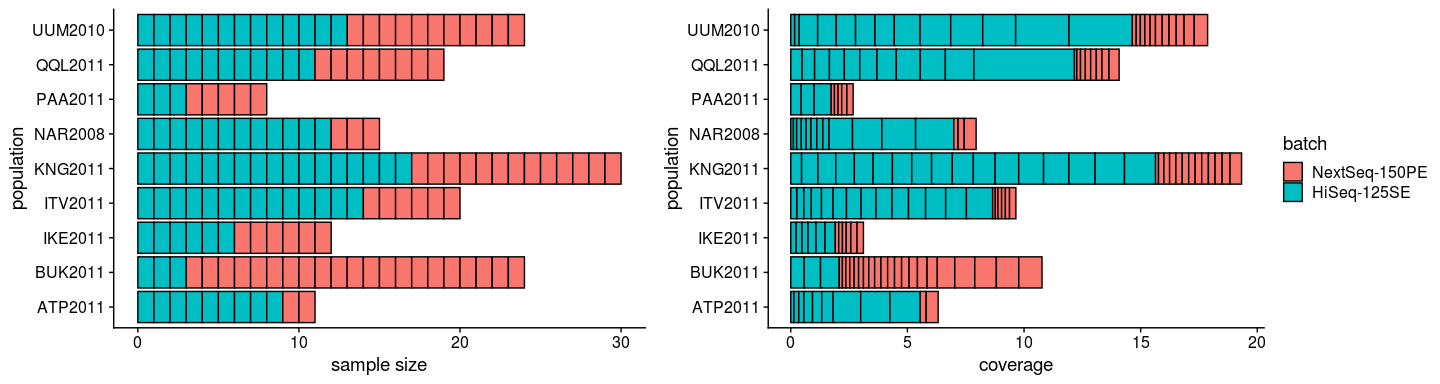
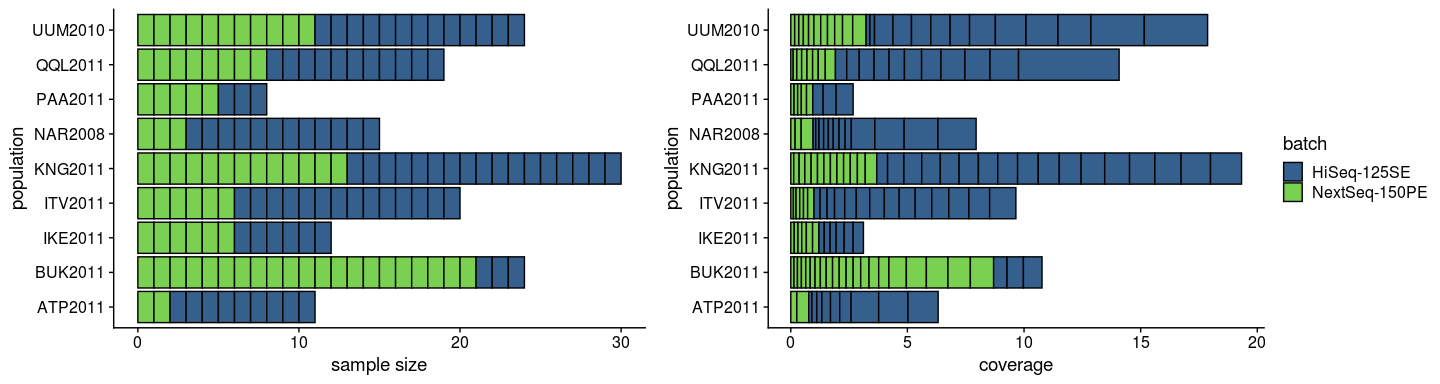
minor update

Changed region(s): [[0.0938, 0.0312, 0.4375, 0.8438], [0.5312, 0.0312, 1.0, 0.8438]]

diff --git a/markdown/pipeline.md b/markdown/pipeline.md
@@ -52,9 +52,11 @@ fastq_list_se <- filter(sample_table_unmerged, lane_number != 7)$prefix
 
 ## Sample distribution
 sample_size_plot <- sample_table_merged %>%
+  mutate(data_type=ifelse(data_type=="pe", "NextSeq-150PE", "HiSeq-125SE")) %>%
   mutate(sample_id_corrected=fct_reorder(sample_id_corrected, data_type)) %>%
   ggplot(aes(x=population_new, fill=data_type, group=sample_id_corrected)) +
   geom_bar(color="black") +
+  scale_fill_viridis_d(begin=0.3, end=0.8) +
   xlab("population")+
   ylab("sample size") +
   theme_cowplot() +
@@ -70,14 +72,14 @@ sample_size_plot
 base_count <- read_tsv("../sample_lists/count_merged_old.tsv") %>%
   dplyr::select(sample_id_corrected, final_mapped_bases)
 coverage_plot <- sample_table_merged %>%
+  mutate(data_type=ifelse(data_type=="pe", "NextSeq-150PE", "HiSeq-125SE")) %>%
   left_join(base_count) %>%
   arrange(data_type, desc(final_mapped_bases)) %>%
   mutate(sample_id_corrected=as_factor(sample_id_corrected)) %>%
   ggplot(aes(x=population_new, y=final_mapped_bases/0.67/10^9, fill=data_type, group=sample_id_corrected)) +
   geom_col(color="black") +
-  scale_fill_discrete(labels=c("NextSeq-150PE", "HiSeq-125SE")) +
+  scale_fill_viridis_d(begin=0.3, end=0.8) +
   labs(x="population", y="coverage", fill="batch")+
-  ylab("coverage") +
   theme_cowplot() +
   coord_flip()
 coverage_plot
